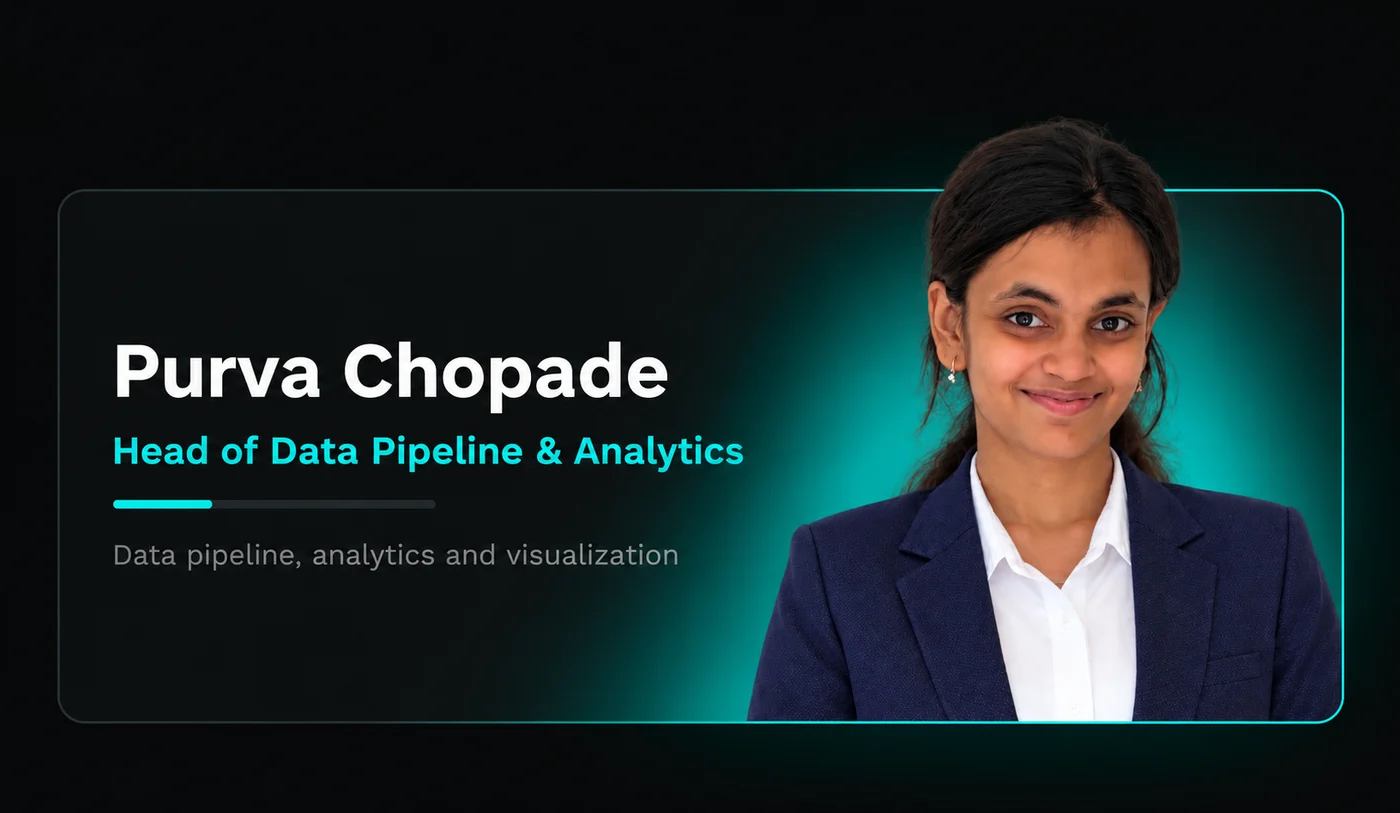
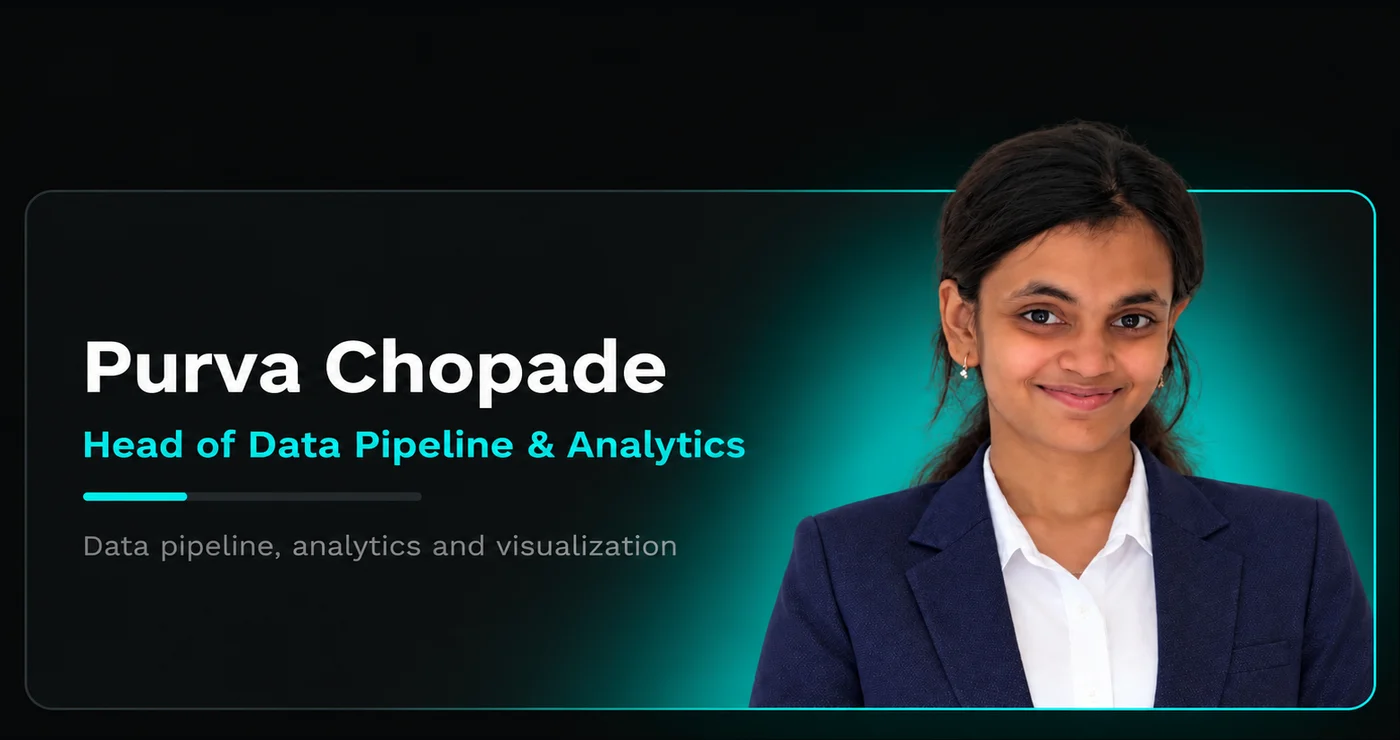
Team cards: make all four cards the same size and aligned

diff --git a/dashboard/src/pages/Landing.jsx b/dashboard/src/pages/Landing.jsx
@@ -269,7 +269,7 @@ export default function Landing() {
         <div className="mt-10 grid gap-x-4 gap-y-2 md:grid-cols-2">
           {TEAM.map((m, i) => (
             <Reveal key={m.file} delay={(i % 2) * 120}>
-              <img src={`team/${m.file}.webp`} alt={m.alt} width="1400" height="813" loading="lazy" className="w-full select-none [mix-blend-mode:lighten]" />
+              <img src={`team/${m.file}.webp`} alt={m.alt} width="1400" height="740" loading="lazy" className="w-full select-none [mix-blend-mode:lighten]" />
             </Reveal>
           ))}
         </div>
